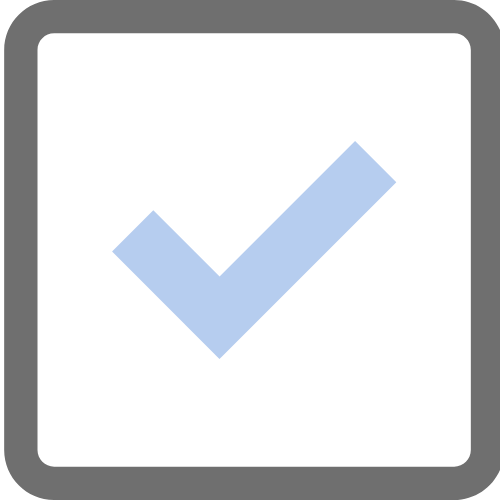
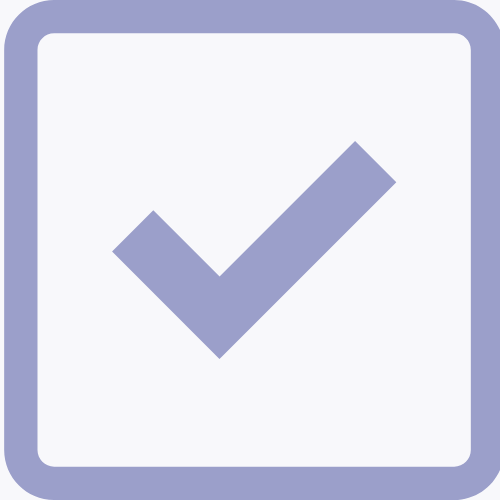
체크 이미지 수정

diff --git a/src/components/PriceCompare.js b/src/components/PriceCompare.js
@@ -85,7 +85,7 @@ const PriceCompare = () => {
 
           <div className="Logo">
             <div onClick={() => navigate('/')}>
-              <img src="shortlogo2.png" alt="로고 이미지" className="logo-image"/>
+              <img src="shortlogo4.png" alt="로고 이미지" className="logo-image"/>
             </div>
             <div>
               <img src="puppylogo.png" alt="배경 이미지" className="logo-box"/>
@@ -149,7 +149,7 @@ const PriceCompare = () => {
                       <tr>
                         <td className="deliveryfee" colSpan={"3"}>
                           <label>
-                            &nbsp;<input type="checkbox" checked={includeDelivery} onChange={() => setIncludeDelivery(!includeDelivery)} />&nbsp;
+                            &nbsp;<input type="checkbox" checked={includeDelivery} onChange={() => setIncludeDelivery(!includeDelivery)} style={{ cursor: "pointer", transform: 'scale(1.4)', marginTop: "10px" }}/>&nbsp;
                             배송비 포함
                           </label>
                         </td>

diff --git a/src/components/ProductCompareList.js b/src/components/ProductCompareList.js
@@ -16,7 +16,7 @@ const ProductCompareList = ({ selectedProducts }) => {
       <div className="pcl-product">
         {selectedProducts.length === 0 && (
           <div className="product-zero">
-            <img src="checkv2.png" alt="발바닥" className="check-image"/>
+            <img src="check.png" alt="발바닥" className="check-image"/>
             <div>체크박스를 눌러서 상품 비교를 해주세요</div>
           </div>
         )}

diff --git a/src/components/ProductCompare.js b/src/components/ProductCompare.js
@@ -97,7 +97,7 @@ const ProductCompare = () => {
 
           <div className="Logo">
             <div onClick={() => navigate('/')}>
-              <img src="shortlogo2.png" alt="로고 이미지" className="logo-image"/>
+              <img src="shortlogo4.png" alt="로고 이미지" className="logo-image"/>
             </div>
             <div>
               <img src="puppylogo.png" alt="배경 이미지" className="logo-box"/>

diff --git a/src/pages/WishList.js b/src/pages/WishList.js
@@ -167,7 +167,7 @@ const WishList = () => {
 
           <div className="Logo">
             <div onClick={() => navigate('/')}>
-              <img src="shortlogo2.png" alt="로고 이미지" className="logo-image"/>
+              <img src="shortlogo4.png" alt="로고 이미지" className="logo-image"/>
             </div>
             <div>
               <img src="puppylogo.png" alt="배경 이미지" className="logo-box"/>
